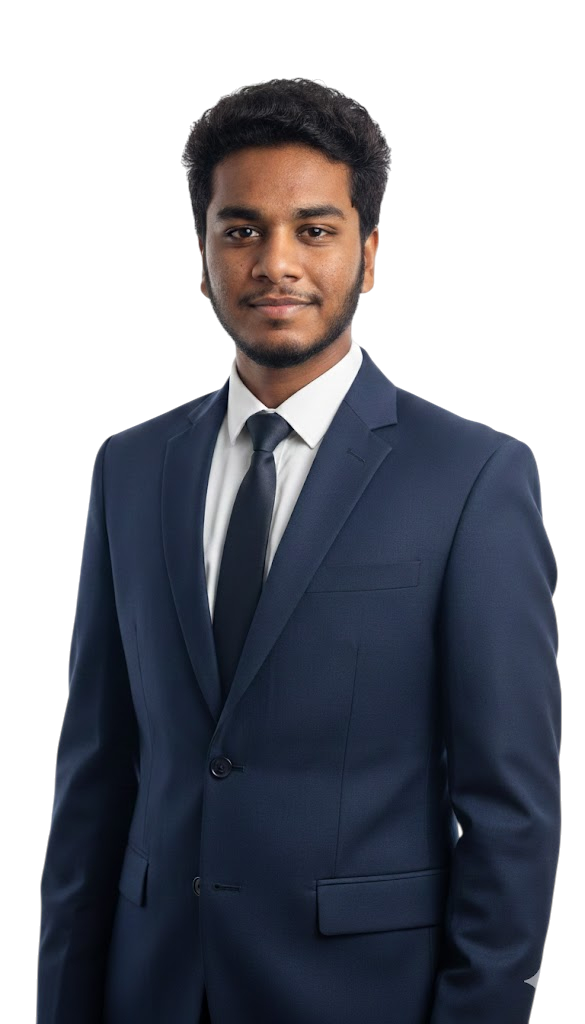
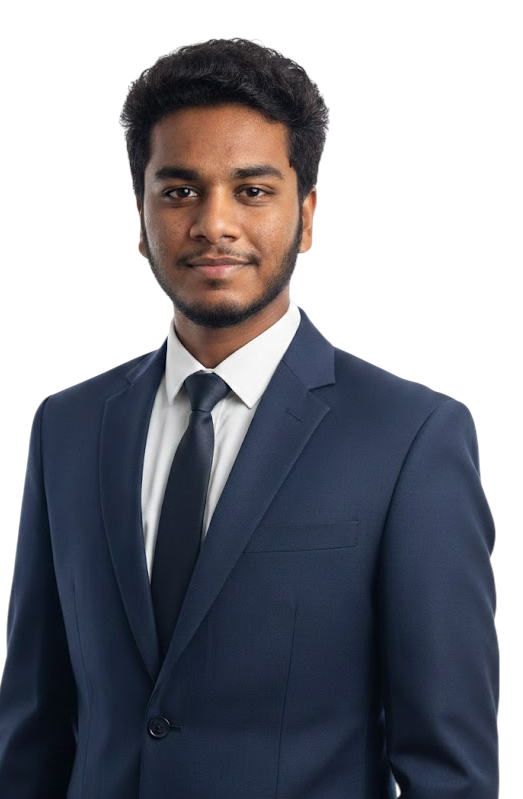
Done

diff --git a/frontend/src/components/landing-page/Team.jsx b/frontend/src/components/landing-page/Team.jsx
@@ -138,7 +138,7 @@ const Team = () => {
     };
 
     return (
-        <div id="team" className="h-screen bg-[#111] flex items-center justify-center font-sans relative overflow-hidden">
+        <div id="team" className="min-h-screen md:h-screen bg-[#111] flex items-center justify-center font-sans relative overflow-y-auto md:overflow-hidden">
             <div
                 className="absolute inset-0 opacity-[0.05] pointer-events-none"
                 style={{
@@ -150,9 +150,9 @@ const Team = () => {
                 initial={{ opacity: 0, scale: 0.95 }}
                 animate={{ opacity: 1, scale: 1 }}
                 transition={{ duration: 0.8, ease: "easeOut" }}
-                className="bg-white w-full h-full shadow-2xl flex flex-col relative overflow-hidden"
+                className="bg-white w-full min-h-screen md:h-full shadow-2xl flex flex-col relative overflow-hidden"
             >
-                <div className="absolute top-10 right-10 pointer-events-none z-0">
+                <div className="absolute top-4 right-4 md:top-10 md:right-10 pointer-events-none z-0">
                     <AnimatePresence mode='wait'>
                         <motion.div
                             key={activeMember.id}
@@ -160,7 +160,7 @@ const Team = () => {
                             animate={{ opacity: 1, y: 0 }}
                             exit={{ opacity: 0, y: 20 }}
                             transition={{ duration: 0.5 }}
-                            className="text-[12rem] md:text-[18rem] font-bold leading-none text-transparent opacity-5"
+                            className="text-[8rem] md:text-[12rem] lg:text-[18rem] font-bold leading-none text-transparent opacity-5"
                             style={{
                                 WebkitTextStroke: '2px rgba(0,0,0,0.1)',
                             }}
@@ -171,7 +171,7 @@ const Team = () => {
                 </div>
 
                 <div className="relative z-10 flex flex-col md:flex-row h-full w-full">
-                    <div className="w-full md:w-5/12 flex flex-col justify-between h-full p-8 md:p-12 lg:p-16 relative z-20">
+                    <div className="w-full md:w-5/12 flex flex-col justify-between h-auto md:h-full p-6 md:p-10 lg:p-10 relative z-20">
                         <div className="space-y-8 mt-4 relative z-30">
                             <motion.div
                                 initial={{ opacity: 0, x: -20 }}
@@ -189,7 +189,7 @@ const Team = () => {
                                 initial={{ opacity: 0, y: 20 }}
                                 animate={{ opacity: 1, y: 0 }}
                                 transition={{ delay: 0.3 }}
-                                className="text-6xl md:text-7xl lg:text-8xl font-black text-black leading-[0.85] tracking-tighter"
+                                className="text-5xl md:text-7xl lg:text-8xl font-black text-black leading-[0.85] tracking-tighter"
                             >
                                 Our<br />
                                 Team
@@ -207,8 +207,8 @@ const Team = () => {
                             </motion.div>
                         </div>
 
-                        <div className="mt-auto">
-                            <div ref={scrollContainerRef} className="flex space-x-6 overflow-x-auto pb-8 pt-4 no-scrollbar items-end pl-2">
+                        <div className="mt-8 md:mt-auto">
+                            <div ref={scrollContainerRef} className="flex space-x-4 md:space-x-6 overflow-x-auto pb-4 md:pb-8 pt-4 no-scrollbar items-end pl-2">
                                 {teamMembers.map((member, index) => (
                                     <motion.button
                                         key={member.id}
@@ -216,8 +216,8 @@ const Team = () => {
                                         whileHover={{ y: -10, scale: 1.05 }}
                                         whileTap={{ scale: 0.95 }}
                                         className={`group relative flex-shrink-0 transition-all duration-500 ease-out ${index === activeIndex
-                                            ? 'w-28 h-36 md:w-40 md:h-52 z-10'
-                                            : 'w-24 h-32 md:w-28 md:h-40 opacity-40 hover:opacity-100 z-0'
+                                            ? 'w-20 h-28 md:w-40 md:h-52 z-10'
+                                            : 'w-16 h-24 md:w-28 md:h-40 opacity-40 hover:opacity-100 z-0'
                                             }`}
                                     >
                                         <div className={`absolute inset-0 transform -skew-x-6 overflow-hidden rounded-2xl shadow-lg transition-all duration-500 ${index === activeIndex
@@ -267,12 +267,9 @@ const Team = () => {
                         </div>
                     </div>
 
-                    <div className="w-full md:w-7/12 relative h-full">
+                    <div className="w-full md:w-7/12 relative h-[700px] md:h-full mt-4 md:mt-0">
                         <motion.div
-                            className="absolute inset-0 bg-black z-0"
-                            style={{
-                                clipPath: 'polygon(15% 0, 100% 0, 100% 100%, 0% 100%)',
-                            }}
+                            className="absolute inset-0 bg-black z-0 [clip-path:polygon(0_0,100%_0,100%_100%,0_100%)] md:[clip-path:polygon(15%_0,100%_0,100%_100%,0%_100%)]"
                         >
                             <div className="absolute inset-0 bg-gradient-to-tr from-gray-900 via-[#0a0a0a] to-gray-800/80"></div>
                             <div
@@ -285,7 +282,7 @@ const Team = () => {
                         </motion.div>
 
                         <div className="relative w-full h-full flex flex-col justify-end">
-                            <div className="absolute top-8 right-8 md:right-12 z-10 w-full md:max-w-[420px] pointer-events-auto">
+                            <div className="absolute top-4 left-4 right-4 md:top-8 md:right-12 md:left-auto z-30 w-auto md:w-full md:max-w-[420px] pointer-events-auto">
                                 <AnimatePresence mode="wait">
                                     <motion.div
                                         key={activeMember.id}
@@ -297,7 +294,7 @@ const Team = () => {
                                             visible: { opacity: 1, x: 0, transition: { staggerChildren: 0.05, duration: 0.5 } },
                                             exit: { opacity: 0, x: 50 }
                                         }}
-                                        className="bg-white/10 backdrop-blur-md p-8 pb-24 rounded-3xl shadow-2xl border border-white/20 text-right"
+                                        className="bg-white/10 backdrop-blur-md p-6 md:p-8 pb-8 md:pb-24 rounded-3xl shadow-2xl border border-white/20 text-right"
                                     >
                                         <div className="flex flex-wrap gap-2 justify-end mb-4">
                                             {activeMember.skills.map((skill, idx) => (
@@ -341,7 +338,7 @@ const Team = () => {
                                         exit="exit"
                                         src={activeMember.image}
                                         alt={activeMember.name}
-                                        className="h-full w-auto object-contain object-bottom drop-shadow-2xl md:mr-32"
+                                        className="h-[55%] md:h-full w-auto object-contain object-bottom drop-shadow-2xl md:mr-[350px]"
                                     />
                                 </AnimatePresence>
                             </div>
